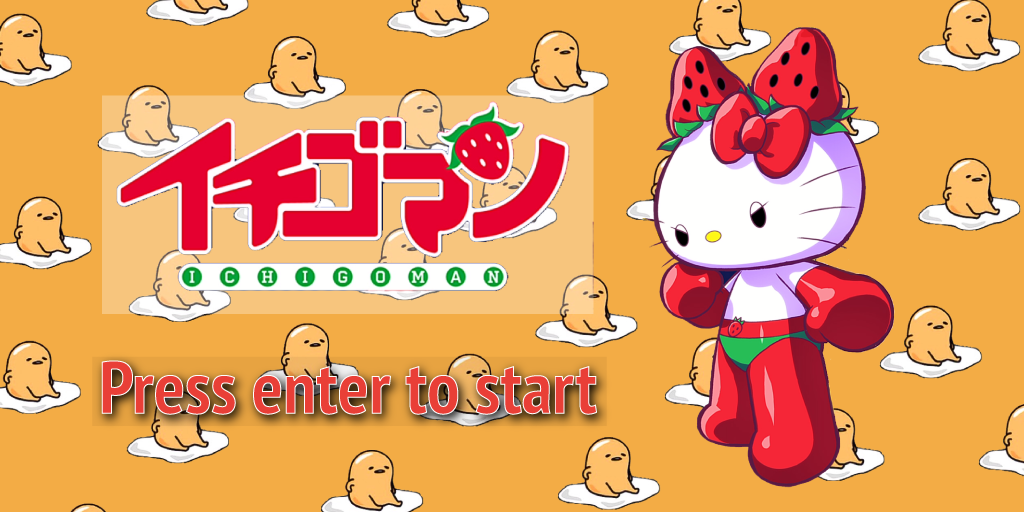
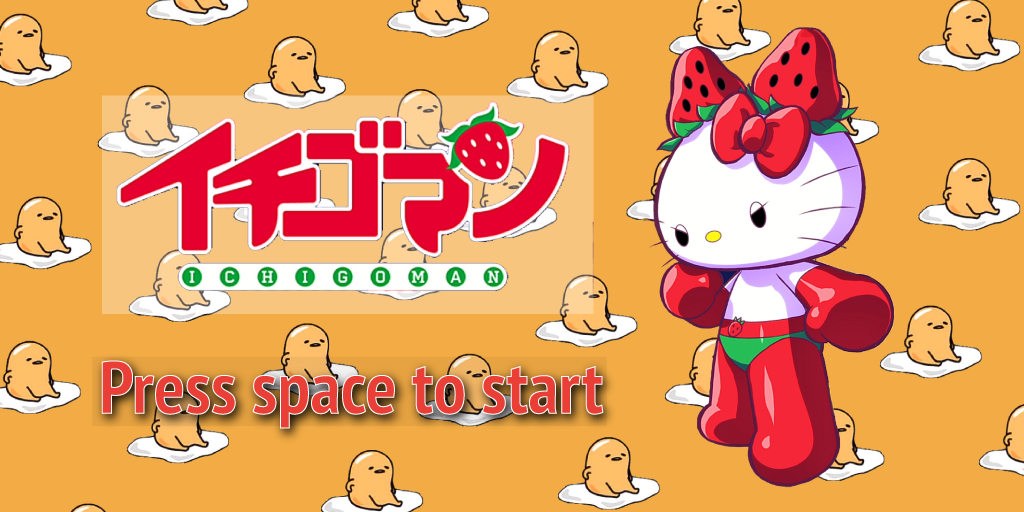
portada de won

Changed region(s): [[0.2188, 0.7188, 0.5938, 0.8438]]

diff --git a/main.js b/main.js
@@ -6,6 +6,7 @@ var interval;
 var frames = 0; //la variable frames empieza en cero.
 var score = Math.floor(frames/60);
 var gudeTamas = []; //array de nuevos gudetamas. Empieza vacío.
+var nivel1 = true;
 
 var images = {
     ichigoRun1: '../IchigoGame/images/running2.png',
@@ -15,12 +16,15 @@ var images = {
     ichigoDown: '../IchigoGame/images/down.png',
     ichigoDownLeft: '../IchigoGame/images/downleft.PNG',
     ichigoDownRight: '../IchigoGame/images/downrigth.png',
-    startGame: '../IchigoGame/images/StartPortada.png',
-    gameOver: '../IchigoGame/images/gameover.png',
+    kick: '../IchigoGame/images/kick1.png',
     huevito: '../IchigoGame/images/huevito.png',
     gojira1: '../IchigoGame/images/gojira1.png',
     gojira2: '../IchigoGame/images/gojira2.png',
+    gojira3: '../IchigoGame/images/gojiradamage.png',
     laser: '../IchigoGame/images/laser.png',
+    startGame: '../IchigoGame/images/StartPortada.png',
+    gameOver: '../IchigoGame/images/gameover.png',
+    youWon: '../IchigoGame/images/WonPortada.png',
     bg: '../IchigoGame/images/Background.png' //Es el background del videojuego
 }
 
@@ -97,8 +101,8 @@ class IchigoMan {
         this.y = 200; //posición y del elemento en el canvas
         this.width = 190; //ancho del elemento
         this.height = 250; //alto del elemento
-        this.health = 40;
-        this.kicking = false;
+        this.health = 10;
+        //this.kicking = false;
         this.image = new Image(); /**/
         this.image.src = images.ichigoRun1; //ruta de la imagen que está en el objeto images
         this.image.onload = function () { //cuando se cargue la imagen:
@@ -140,7 +144,7 @@ class IchigoMan {
         this.x -= 50; //disminuye x, mueve a la izquierda
     }
     kick(){
-        this.image.src = images.kick;
+        this.image.src = images.kick; /**/ // Sólo cambia la imagen
 
     }
     draw() { 
@@ -184,7 +188,7 @@ class Gudetama {
         }
         //console.log(this.randomNumber);
     }
-
+    
     draw() {
         if(this.y < canvas.height-90){
             this.y += this.gravity; //suma el valor de la variable gravedad a y, de esta manera y incrementa cada vez que se dibuja.
@@ -200,41 +204,56 @@ class Gudetama {
 }
 
 class Gojira {
-    constructor(){
-        this.width = 300;
-        this.height = 300;
-        this.x = canvas.width + 1600;
-        this.y = canvas.height - 300;
-        this.switch = true;
-        this.imageHuevito = new Image();
-        this.imageHuevito.src = images.huevito;
-        this.image1 = new Image();
-        this.image1.src = images.gojira1;
-        this.image2 = new Image();
-        this.image2.src = images.gojira2;
-        this.drawable = this.imageHuevito;
-        //this.image.src = images.huevito;
-        this.drawable.onload = function() {
-          this.draw();
-        }.bind(this);
-    
+  constructor() {
+    this.width = 300;
+    this.height = 300;
+    this.health = 3;
+    this.x = canvas.width + 1600;
+    this.y = canvas.height - 300;
+    this.switch = true;
+    this.imageHuevito = new Image();
+    this.imageHuevito.src = images.huevito;
+    this.image1 = new Image();
+    this.image1.src = images.gojira1;
+    this.image2 = new Image();
+    this.image2.src = images.gojira2;
+    this.image3 = new Image();
+    this.image3.src = images.gojira3;
+    this.drawable = this.imageHuevito;
+    //this.image.src = images.huevito;
+    this.drawable.onload = function() {
+      this.draw();
+    }.bind(this);
+  }
+  receiveDamage(damage) {
+    //this.image.src = images.ichigoPunched;
+    this.health -= damage; //Borrar current gudetama
+      if (this.health > 0) {
+      console.log("Gojira received " + damage + " points of damage");
+      ctx.fillText("Gojira Lives " + gojira.health, this.x, this.y);
+      this.drawable = this.image3;
+      ctx.drawImage(this.drawable, this.x, this.y, this.width, this.height);
+    } else {
+      ctx.fillText("Gojira has died " + gojira.health, this.x, this.y);
+      console.log("Gojira has died");
     }
-
-    draw(){
-        if (this.x < canvas.width - 280) {
-            if(frames%10 === 0){
-                this.switch = !this.switch;
-                this.drawable = this.switch ? this.image1 : this.image2;
-            } 
-            approachingBoss.pause();
-            approachingBoss.currentTime = 0;
-            gojiraSong.play();
-            ctx.drawImage(this.drawable, this.x, this.y, this.width, this.height); //dibuja la imagen
-        } else {
-            this.x--;
-            ctx.drawImage(this.drawable, this.x, this.y, this.width, this.height);
-        }
+    return;
+  }
+  draw() {
+    if (this.x < canvas.width - 280) {
+      if (frames % 10 === 0) {
+        this.switch = !this.switch;
+        this.drawable = this.switch ? this.image1 : this.image2;
+      }
+      approachingBoss.pause();
+      approachingBoss.currentTime = 0;
+      gojiraSong.play();
+      ctx.drawImage(this.drawable, this.x, this.y, this.width, this.height); //dibuja la imagen
+    } else {
+      this.x--;
+      ctx.drawImage(this.drawable, this.x, this.y, this.width, this.height);
     }
+  }
 }
 
 class Laser {
@@ -280,7 +299,7 @@ class Vidas {
 
 var ichigo1 = new IchigoMan();/* */
 var vida = new Vidas();
-var go = new Gojira();
+var gojira = new Gojira();
 var laser = new Laser();
 var board = new Board(); /* */ //se crea una instancia para poder ejecutar las clases con sus constructores y funciones.
 //la instancia board se crea al final para que en la pantalla de inicio, cuando se pinta el canvas no se vean las demás imágenes.
@@ -293,7 +312,7 @@ function update() {
     ctx.clearRect(0, 0, canvas.width, canvas.height); //limpia el canvas
     board.draw(); //ejecuta la función draw, de la variable board, la cual contiene todo lo que está en la clase Board
     ichigo1.draw(); //ejecuta la función draw, de la variable ichigo1, la cual contiene todo lo que está en la clase IchigoMan
-    go.draw();
+    gojira.draw();
     vida.draw();
     laser.draw();
 
@@ -304,6 +323,7 @@ function update() {
         isTouchingGudetama(ichigo1, g);
     });
     isTouchingLaser(ichigo1,laser);
+    isTouchingGojira(ichigo1,gojira);
 }
 
 function inicio(){
@@ -311,8 +331,7 @@ function inicio(){
     board.iniciobg();
     addEventListener('keydown', function (e) {
         switch (e.keyCode) {
-            case 13:
-            //clearInterval(interval);
+            case 32:
                 start();
                 break;
 }});}
@@ -379,9 +398,21 @@ function isTouchingLaser(ichigo1,laser){
             (ichigo1.x + ichigo1.width > laser.x) &&
             (ichigo1.y < laser.y + laser.height) &&
             (ichigo1.y + ichigo1.height > laser.y)) {
-            ichigo1.receiveDamage(1);
-            laser.x = canvas.width / 2;//se borra
-        //poner sonido
+                ichigo1.receiveDamage(1);
+                laser.x = canvas.width / 2;//se borra
+                //poner sonido
+        }
+    }
+}
+
+function isTouchingGojira(ichigo1,gorija){
+    if (Math.floor(frames / 60) > 33) {
+        if ((gojira.x < ichigo1.x + ichigo1.width) &&
+            (gojira.x + gojira.width > ichigo1.x) &&
+            (gojira.y < ichigo1.y + ichigo1.height) &&
+            (gojira.y + gojira.height > ichigo1.y)) {
+                ichigo1.x = 100;
+                gojira.receiveDamage(1);
         }
     }
 }
@@ -398,15 +429,30 @@ function gameOver() {
     approachingBoss.currentTime = 0;
     gojiraSong.pause();
     gojiraSong.currentTime = 0;
+    nivel1 = false;
+    addEventListener('keydown', function (e) {
+        switch (e.keyCode) {
+            case 13:
+                restart();
+                break;
+        }
+    });
 }
 
 function restart() {
-    if (interval) return;
-    gudeTamas = [];
-    frames = 0;
-    ichigo1.x = 100;
-    ichigo1.y = 100;
-    inicio();
+
+    if(nivel1 === false){
+        inicio();
+        if (interval) return;
+        gorija.x = canvas.width + 1600;
+        gojira.image3.src = images.gojira3;
+        gojira.health = 3;
+        gudeTamas = [];
+        frames = 0;
+        ichigo1.x = 100;
+        ichigo1.y = 100;
+        ichigo1.health = 6;
+    }
 }
 
 //listeners
@@ -426,15 +472,15 @@ addEventListener('keydown', function (e) {
         case 40:
             ichigo1.moveDown();
             break;
-        case 27:
-            restart();
-            break;
-        case 32:
+        case 16:
             ichigo1.kick();
             break;
-        //case 13:
-            //start();
-            //break;
+        case 32:
+            start();
+            break;
+       // case 13:
+         //   restart();
+           // break;
     }
 });
 
